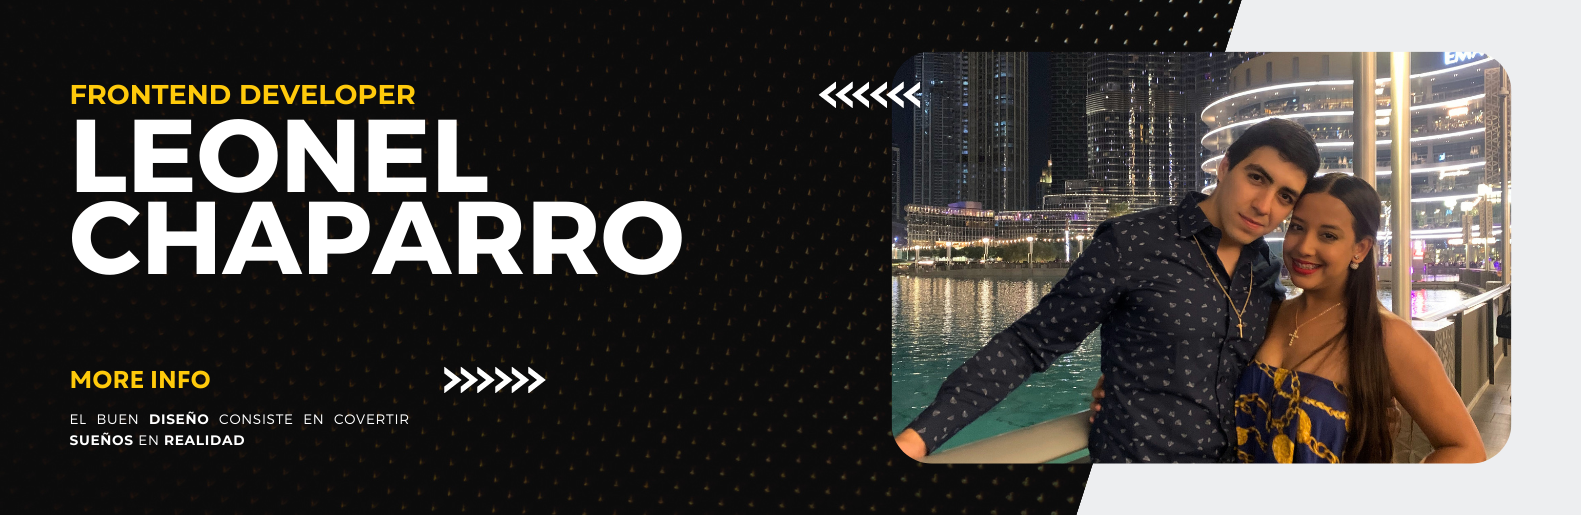
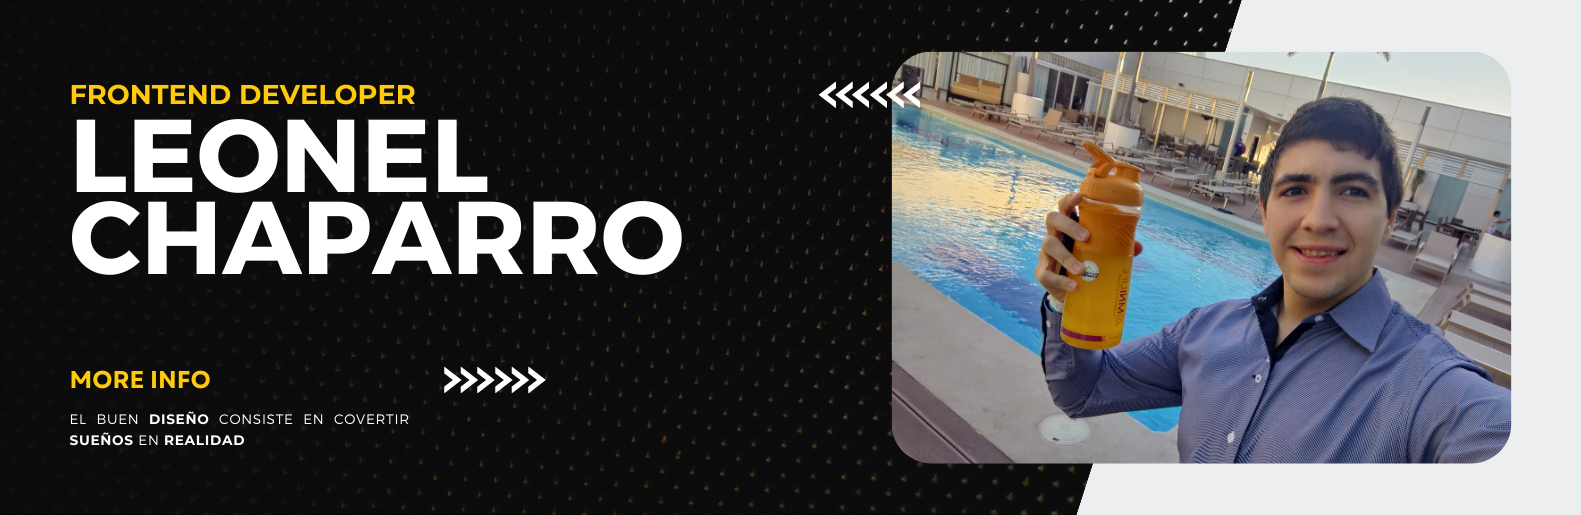
cambio de imagenes v2

Changed region(s): [[0.5579, 0.0932, 0.9608, 0.901]]

diff --git a/index.html b/index.html
@@ -99,7 +99,7 @@
         <!-- Section -->
         <div class="hero-card">
             <div class="hero-image">
-                <img src="/images/Leonel Chaparro.png" alt="Desarrollador Frontend">
+                <img src="/images/Leonel-Ch.png" alt="Desarrollador Frontend">
             </div>
             <div class="hero-content">
                 <div class="hero-info">
@@ -153,7 +153,7 @@
             <div class="carousel">
                 <div class="slides">
                   <img src="/images/mobile-projects2.jpg" alt="Imagen 1">
-                  <img src="/images/dubai-camisa.webp" alt="Imagen 2">
+                  <img src="/images/carousel-preg.jpg" alt="Imagen 2">
                   <img src="/images/pc.webp" alt="Imagen 3">
                   <img src="/images/mobile-projects.jpg" alt="Imagen 4">
                   <img src="/images/latop-projects.jpg" alt="Imagen 5">

diff --git a/style.css b/style.css
@@ -585,6 +585,7 @@ ul li:hover a span:nth-child(2) {
   padding: 3rem;
   background-color: white;
   gap: 0.5rem;
+  max-height: 90vh;
   border-radius: 1rem;
   -webkit-border-radius: 1rem;
   -moz-border-radius: 1rem;
@@ -766,6 +767,12 @@ ul li:hover a span:nth-child(2) {
 }
 
 /* MEDIA QUERIES  */
+@media screen and (min-width: 1920px){
+  .hero-column-right h1 {
+    font-size: calc(40px + 3vw) !important;
+    line-height: 1.2;
+  }
+}
 @media screen and (max-width: 767px) {
   .page-grid {
     width: 90%;
